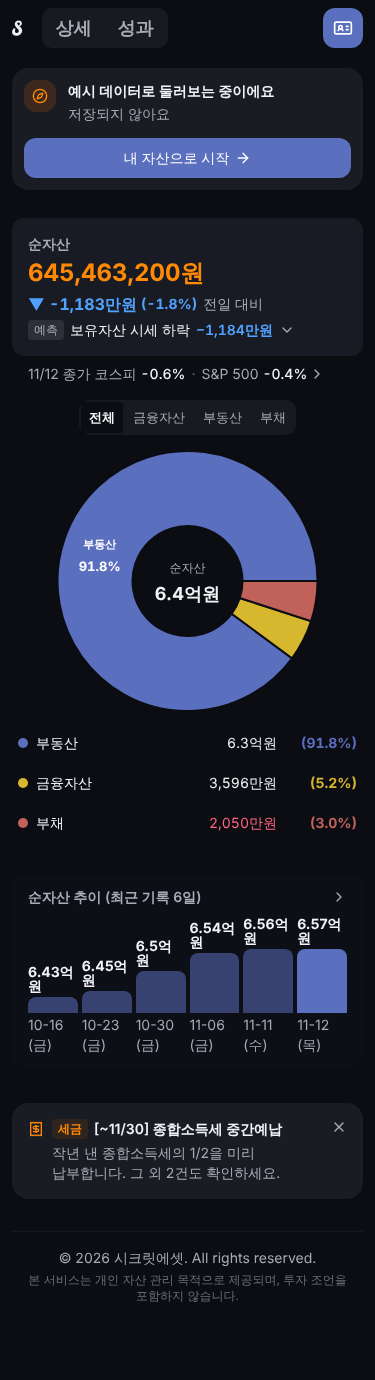
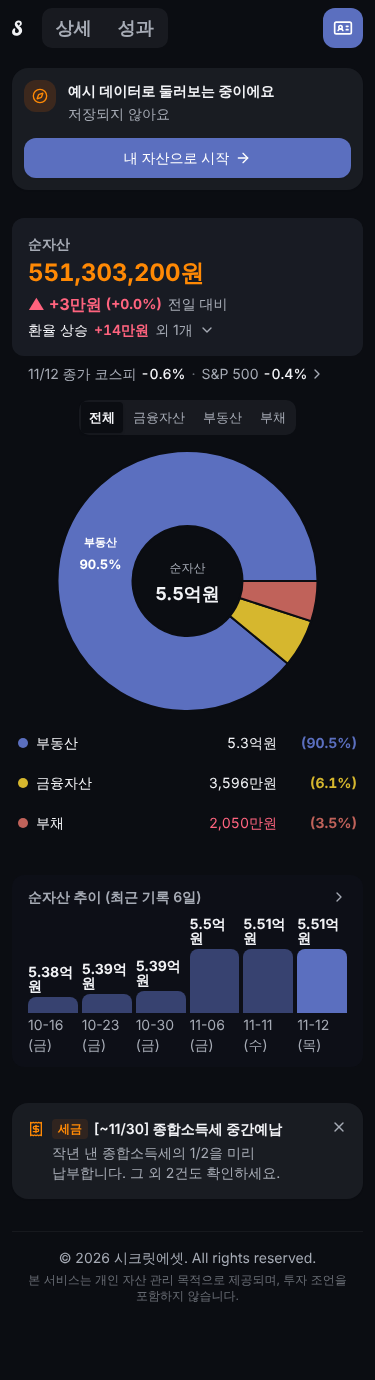
memory: v4.94 운영 스모크 PASS·대시보드 갱신

diff --git a/STATE.md b/STATE.md
@@ -48,7 +48,7 @@
 
 ## 열린 릴리스
 - v4.92 = #181 머지 완료(8a7bdc9, 11-13 02:29, 운영 스모크 PASS). v4.91 = #179 → squash [#4.93] (PR #180, origin/main merge 완료 @e324876·증분 qa PASS(머지 head e324876), owner-review 대표 데모 대기). 보류 알림: 없음(11-13 07:53 전달 완료).
-- **v4.94 = #183 머지 완료**(b9b223f, 11-13 10:28 KST = 판독 경계, 운영 스모크 진행 중). **v4.95 = #184** PR #186 @e2e146d UI 검수·qa 중 → 끝나면 origin/main(b9b223f) merge 커밋·증분 qa(C41)·squash 번호 main 최대+0.01. PWA PR #180 번호 미정(머지 시 결정). 이하 4.94 기획 기록: 처음 맞는 결산 열기(A)·결산 이름 하나로(C)·체험 숫자 맞추기(S3), risk:medium(예비)·COO 위임. planning ① 합의 완료(11-13 08:45, issues/4.94-183-first-settlement/4.94-direction.md). 다음: ② cto 반대 검토 → spec·tech-review(시작점 계산 위치·50% 픽스처 검증·S3 방식·4.93 테스트 충돌) → 개발. 컷: 11/24 qa 미진입 또는 '기록 안 된 변화' ≥50%면 A 제외, 머지 ≤11/26. 4.93이 먼저 머지되면 squash [#4.94] 유지, 4.94가 먼저면 번호 재부여(C43).
+- **v4.94 = #183 머지 완료**(b9b223f, 11-13 10:28 KST = 판독 경계, 운영 스모크 PASS). **v4.95 = #184** PR #186 @e2e146d UI 검수·qa 중 → 끝나면 origin/main(b9b223f) merge 커밋·증분 qa(C41)·squash 번호 main 최대+0.01. PWA PR #180 번호 미정(머지 시 결정). 이하 4.94 기획 기록: 처음 맞는 결산 열기(A)·결산 이름 하나로(C)·체험 숫자 맞추기(S3), risk:medium(예비)·COO 위임. planning ① 합의 완료(11-13 08:45, issues/4.94-183-first-settlement/4.94-direction.md). 다음: ② cto 반대 검토 → spec·tech-review(시작점 계산 위치·50% 픽스처 검증·S3 방식·4.93 테스트 충돌) → 개발. 컷: 11/24 qa 미진입 또는 '기록 안 된 변화' ≥50%면 A 제외, 머지 ≤11/26. 4.93이 먼저 머지되면 squash [#4.94] 유지, 4.94가 먼저면 번호 재부여(C43).
 - 후보(11-13 D 탈락·보류): 기획 B '일' 탭=홈 Hero(다음 릴리스 1순위 ≤12/1) · Safari 저장 보호 persist()(4.93 머지 후 p2 동승) · 웰컴 미리보기 정돈(UI 도넛 라벨 넘침·예시 안 빈 카드·320 칩, 12/11 이후 1건) · 웰컴 5.5억 vs 체험 6.45억 C27 확인(qa, 12/11 이후 반영) · ProfitCard 비제어 분기 p3 · Popover motion-safe 12/10 이후 · 홈 지수 조회·60초 tick 탈락(측정 근거 없음) · 블로그 3편 business-pm 상시 트랙(W48 초안 11/20, 금액 0·utm 0, 게시는 대표)
 - 없음 (11-12 하루 머지: v4.84~v4.90, 전부 운영 스모크 PASS). 후속 후보: 기록 2~6일 사용자 7일 카드 도착 '기록이 부족해요', 체험 '지난 접속' 문구, 320 7일 막대 값 2줄, 세금 화면 지난 마감 아래로(12/16 전), /ratio 도착 개선(11/26~27 재판정), 세입자 보증금(risk:high, 대표 승인 트랙), 조건 Push 알림(대표 판단), ProfitCard 비제어 분기 정리, Popover reduced-motion, 320 배당 '12월 예정' 칩
 

diff --git a/DASHBOARD.md b/DASHBOARD.md
@@ -2,7 +2,7 @@
 
 > 대표는 이 페이지만 보고 승인·진행을 판단합니다. **버그·기획 누락 수정은 COO 자체 승인으로 진행되며 사후 보고는 이 페이지 목록으로만 합니다(11/09 대표 결정).** 팀이 매 실행·단계 변화마다 이 파일 전체를 갱신합니다.
 > 고정 주소: https://github.com/BBplayworld/vaultfolio/blob/memory/DASHBOARD.md
-> **마지막 갱신: 2026-11-13 10:30 KST** · 정기 실행(깨우기·안전망): 01:53 / 07:53 / 13:53 KST (~12/07) · 그 사이에도 한도 내 지속 진행 · 운영 최신 **v4.94**
+> **마지막 갱신: 2026-11-13 10:50 KST** · 정기 실행(깨우기·안전망): 01:53 / 07:53 / 13:53 KST (~12/07) · 그 사이에도 한도 내 지속 진행 · 운영 최신 **v4.94**
 
 ## 🟥 대표 확인·결정 필요 (지금)
 1. **ETF 구성종목 API 탐색 (대표님 직접 확인 중 — 이번 주말 예정, 11/12 갱신)** — '[보류] ETF 속까지 합친 내 주식'([#152](https://github.com/BBplayworld/vaultfolio/issues/152)) 재개 여부가 여기에 걸려 있음
@@ -48,7 +48,7 @@
 ## ✅ 위임 머지 완료 (risk:low·medium, 사후 보고)
 | 릴리스 | 머지일 | 내용 | 운영 스모크 |
 |---|---|---|---|
-| v4.94 [PR #185](https://github.com/BBplayworld/vaultfolio/pull/185) | 11/13 | 처음 맞는 결산 열기(#183) — 11월 신규도 첫 결산 창에 결산·팁, 결산 이름 하나로, 체험 순자산 웰컴과 맞춤·가짜 급등 제거 · COO 자체 승인(medium) | 진행 중 |
+| v4.94 [PR #185](https://github.com/BBplayworld/vaultfolio/pull/185) | 11/13 | 처음 맞는 결산 열기(#183) — 11월 신규도 첫 결산 창에 결산·팁, 결산 이름 하나로, 체험 순자산 웰컴과 맞춤·가짜 급등 제거 · COO 자체 승인(medium) | PASS |
 | v4.92 [PR #182](https://github.com/BBplayworld/vaultfolio/pull/182) | 11/13 | 돌아온·처음 온 사용자 숫자·문구 맞추기(#181) — 2주 넘게 쉬고 온 사용자의 7일 값 'M/D 이후'로 통일·체험 '전일 대비' 표시·세금 '이번 달' 지난 마감 아래로 · COO 자체 승인(low) | PASS |
 | v4.90 [PR #178](https://github.com/BBplayworld/vaultfolio/pull/178) | 11/12 | 홈 '오늘'(#175) — 보유 시장 종가 1줄·가장 큰 원인 1줄(7월 접힘 결정 중 1줄만 노출, 원치 않으시면 이 부분만 되돌림)·7일 카드→최근 7일, 시장 타일 휴장 표기 · COO 자체 승인(medium) | PASS |
 | v4.89 [PR #177](https://github.com/BBplayworld/vaultfolio/pull/177) | 11/12 | 세금 관리를 더보기 밖(상세 허브 하단 행)으로, 세금 화면에서 '상세' 탭 켜짐, 홈 원인 펼침 측정(#176) · COO 자체 승인(low) | PASS |

diff --git a/issues/4.94-183-first-settlement/4.94-qa-report.md b/issues/4.94-183-first-settlement/4.94-qa-report.md
@@ -75,3 +75,15 @@
 1) 11월에 처음 등록한 사용자도 7일 뒤부터 팁·허브·결산 화면에서 변화와 원인을 볼 수 있고, 결산 이름이 세 곳에서 같아졌으며 체험 숫자가 웰컴과 맞는다.
 2) 확인 범위: tsc·vitest 2347건·lint·build, 체험·데모·A 주입 상태 375/320/1280 실측, 저장·동기화 diff 0, 체험 재기준의 운영 미적용·쓰기 루프 없음.
 3) 남은 한계: 새 종목 매수·최근 자산 삭제 시 구간이 바뀜(수용), 체험 구성 비중 차이(12/11 이후), ?demo=1 시세 수신 직후 3초 값 깜빡임(preview 전용).
+
+## 운영 스모크 (2026-11-13, https://www.secretasset.xyz, b9b223f)
+| # | 항목 | 판정 | 근거 |
+|---|---|---|---|
+| 1 | 버전 4.94 | PASS | 운영 JS 번들 `["f",0,"4.94"]` 확인. 첫 접속은 이전 배포(Hero 6.45억·-1.8%)가 응답, 약 20초 후 재시도부터 새 배포(롤오버 중 1회 구버전, 3회 재시도 내 정착) |
+| 2 | 체험 ?trial=1 홈 | PASS | 순자산 551,303,200원, 전일 대비 +3만원(+0.0%), 가짜 급등 없음 (prod-home-375.png, prod-home-1280.png) |
+| 3 | 체험 성과 허브·결산 | PASS | 허브 '자산 변화' 행 `11월 · 진행 중 +11,752,228원 +2.2%`, 결산 화면 `11월` + `진행 중` 배지·월별 기록 행 (prod-perf-375.png, prod-settle-375.png) |
+| 4 | 웰컴 미리보기 변화 없음 | PASS | 551,159,778원 +1.3%, 주식 미리보기 동일 (prod-welcome-375.png) |
+| 5 | 콘솔 앱 에러 | PASS | 앱 에러 0. 유일한 `ERR_TUNNEL_CONNECTION_FAILED`는 샌드박스 프록시의 외부 리소스 차단(앱 코드 무관) |
+| 6 | CHECKLIST 운영 스모크(C40·C94 등) | PASS | 실사용자 데이터 접촉 없음(체험·웰컴만), 가로 넘침 없음(375), 다크 쿠키 강제. DASHBOARD 갱신은 memory 커밋 금지 지시로 호출자에게 위임 |
+
+판정: PASS
